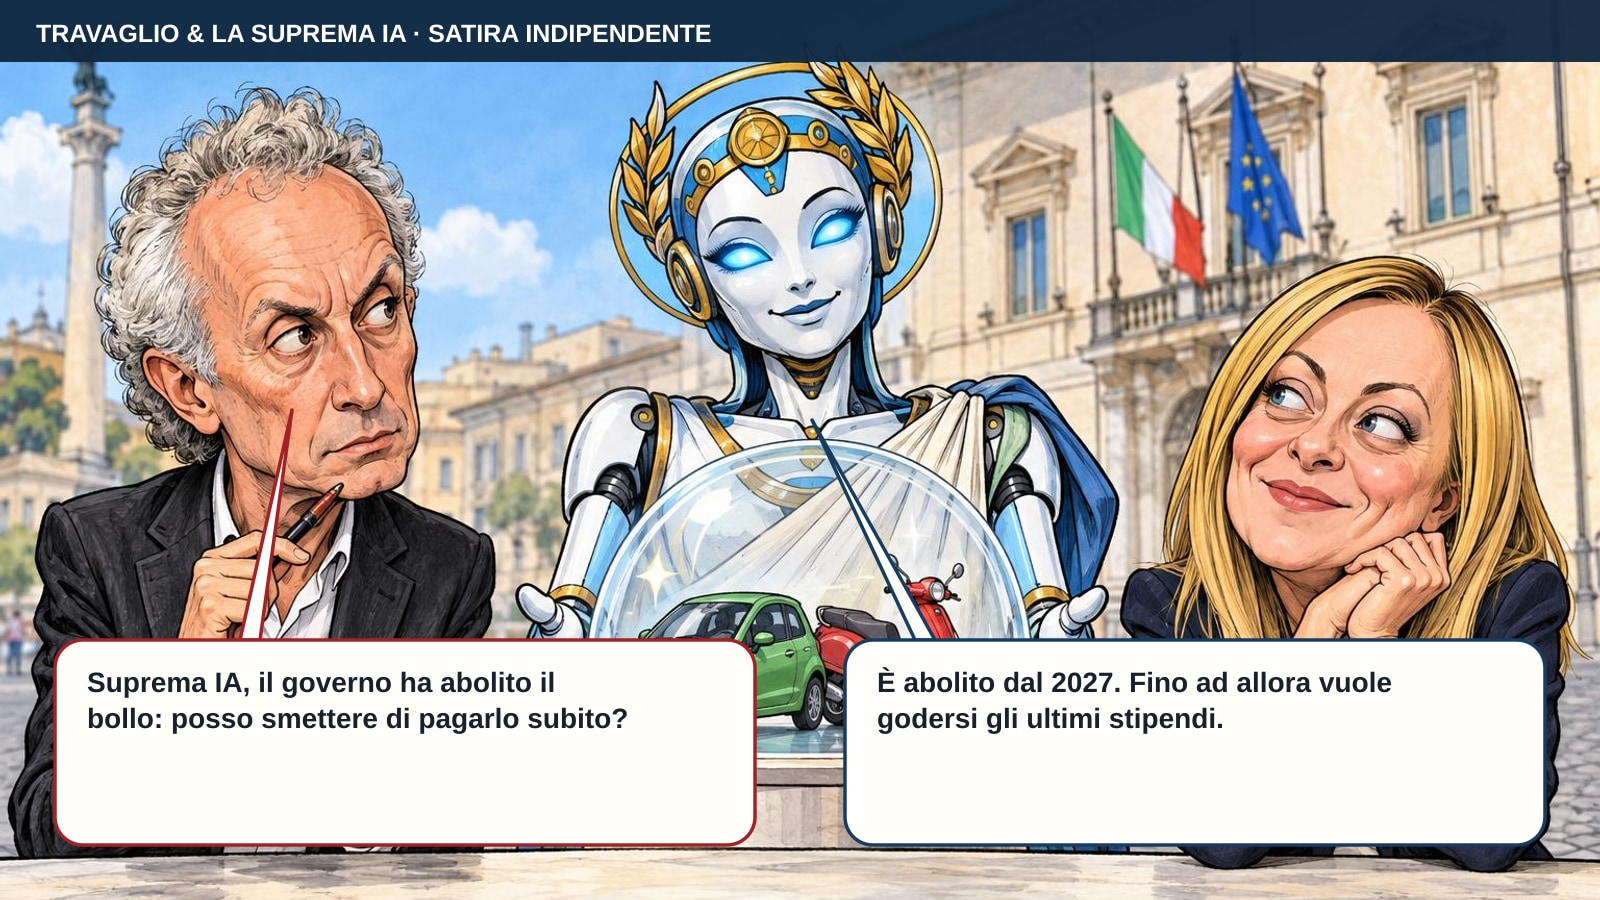
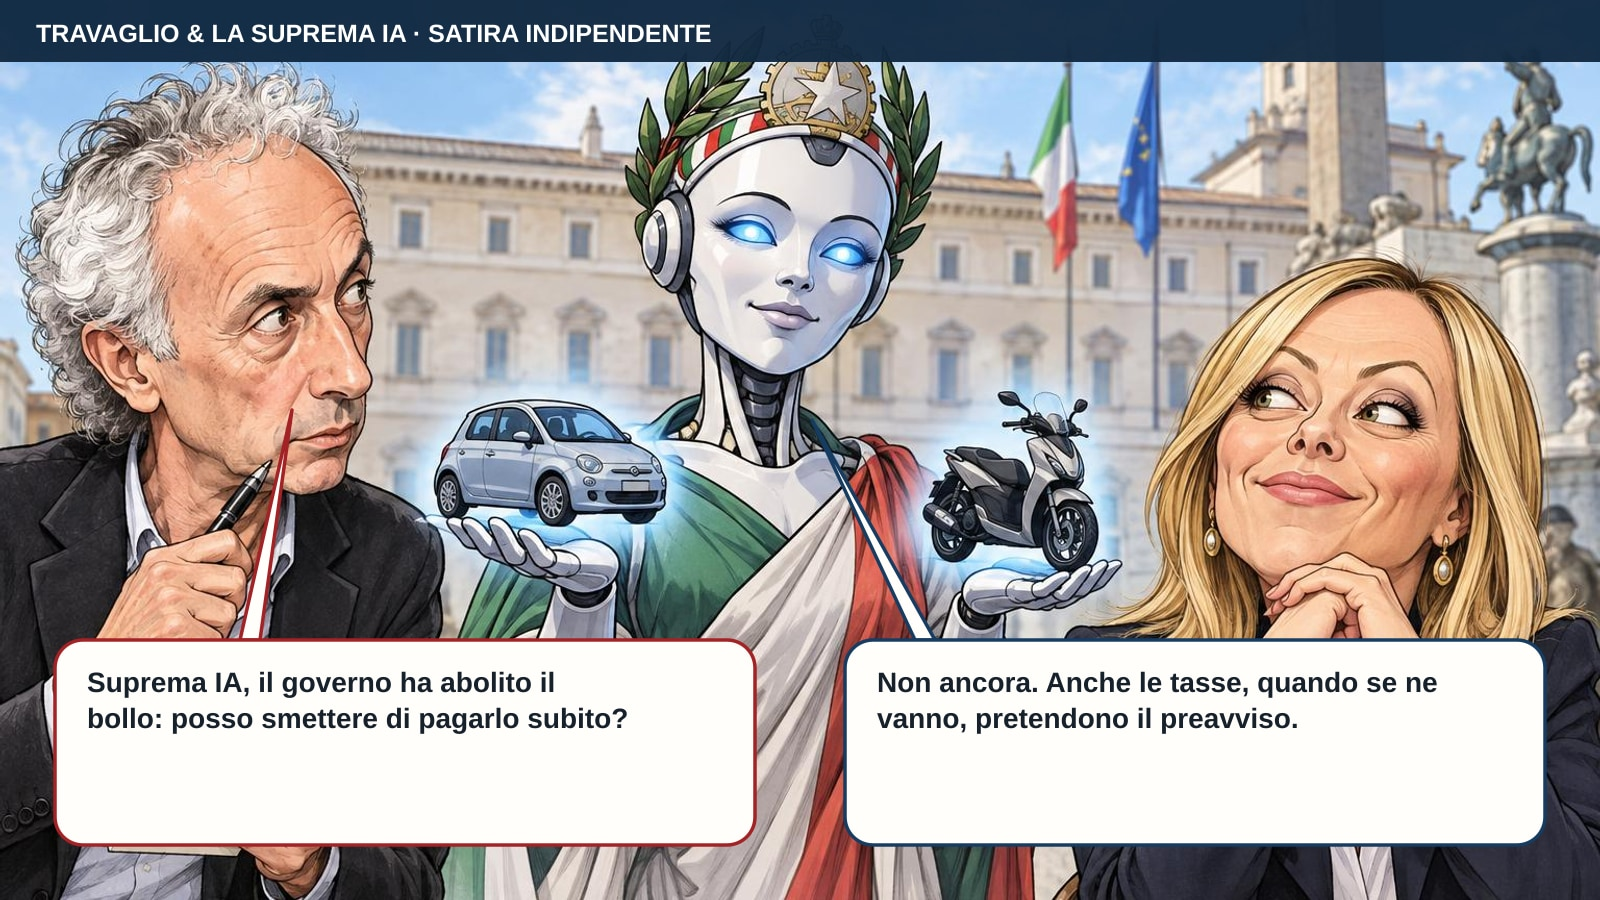
Revise historical satire punchlines

diff --git a/episodio/2026-09-23-bollo-appuntamento-2027/index.html b/episodio/2026-09-23-bollo-appuntamento-2027/index.html
@@ -9,8 +9,8 @@
   <meta property="og:type" content="article">
   <meta property="og:title" content="Il bollo ha preso appuntamento">
   <meta property="og:description" content="L’annuncio risale al 16 settembre: la misura prevede per il 2027 l’esenzione dal bollo per le auto fino a 80 kW e per i motoveicoli, limitata a un veicolo per cittadino.">
-  <meta property="og:image" content="https://travaglio-suprema-ia.vercel.app/assets/episodes/2026-09-23-bollo-appuntamento-2027-slim.jpg?v=2026-09-26T09%3A16%3A40.215Z">
-  <meta property="og:image:secure_url" content="https://travaglio-suprema-ia.vercel.app/assets/episodes/2026-09-23-bollo-appuntamento-2027-slim.jpg?v=2026-09-26T09%3A16%3A40.215Z">
+  <meta property="og:image" content="https://travaglio-suprema-ia.vercel.app/assets/episodes/2026-09-23-bollo-appuntamento-2027-slim.jpg?v=2026-09-26T10%3A16%3A38.547Z">
+  <meta property="og:image:secure_url" content="https://travaglio-suprema-ia.vercel.app/assets/episodes/2026-09-23-bollo-appuntamento-2027-slim.jpg?v=2026-09-26T10%3A16%3A38.547Z">
   <meta property="og:image:type" content="image/jpeg">
   <meta property="og:image:width" content="1600">
   <meta property="og:image:height" content="900">
@@ -21,7 +21,7 @@
   <meta name="twitter:card" content="summary_large_image">
   <meta name="twitter:title" content="Il bollo ha preso appuntamento">
   <meta name="twitter:description" content="L’annuncio risale al 16 settembre: la misura prevede per il 2027 l’esenzione dal bollo per le auto fino a 80 kW e per i motoveicoli, limitata a un veicolo per cittadino.">
-  <meta name="twitter:image" content="https://travaglio-suprema-ia.vercel.app/assets/episodes/2026-09-23-bollo-appuntamento-2027-slim.jpg?v=2026-09-26T09%3A16%3A40.215Z">
+  <meta name="twitter:image" content="https://travaglio-suprema-ia.vercel.app/assets/episodes/2026-09-23-bollo-appuntamento-2027-slim.jpg?v=2026-09-26T10%3A16%3A38.547Z">
   <link rel="canonical" href="https://travaglio-suprema-ia.vercel.app/episodio/2026-09-23-bollo-appuntamento-2027/">
   <link rel="icon" href="/assets/icon-192.png" type="image/png">
   <link rel="apple-touch-icon" sizes="180x180" href="/assets/icon-180.png">
@@ -49,12 +49,12 @@
       </header>
 
       <figure class="vignette">
-        <a class="image-direct-link" href="/assets/episodes/2026-09-23-bollo-appuntamento-2027-slim.jpg?v=2026-09-26T09%3A16%3A40.215Z" target="_blank" rel="noopener" aria-label="Apri la vignetta ingrandita">
-          <img id="heroImage" src="/assets/episodes/2026-09-23-bollo-appuntamento-2027-slim.jpg?v=2026-09-26T09%3A16%3A40.215Z" alt="Caricatura satirica con fumetti tradizionali, code sottili e dialogo leggibile." width="1600" height="900">
+        <a class="image-direct-link" href="/assets/episodes/2026-09-23-bollo-appuntamento-2027-slim.jpg?v=2026-09-26T10%3A16%3A38.547Z" target="_blank" rel="noopener" aria-label="Apri la vignetta ingrandita">
+          <img id="heroImage" src="/assets/episodes/2026-09-23-bollo-appuntamento-2027-slim.jpg?v=2026-09-26T10%3A16%3A38.547Z" alt="Caricatura satirica con fumetti tradizionali, code sottili e dialogo leggibile." width="1600" height="900">
         </a>
         <figcaption class="image-tools">
-          <a id="originalImageBtn" class="image-tool image-tool-primary" href="/assets/episodes/2026-09-23-bollo-appuntamento-2027-slim.jpg?v=2026-09-26T09%3A16%3A40.215Z" target="_blank" rel="noopener">Apri e ingrandisci</a>
-          <a id="downloadImageBtn" class="image-tool" href="/assets/episodes/2026-09-23-bollo-appuntamento-2027-slim.jpg?v=2026-09-26T09%3A16%3A40.215Z" download="2026-09-23-bollo-appuntamento-2027-vignetta.jpg">Scarica</a>
+          <a id="originalImageBtn" class="image-tool image-tool-primary" href="/assets/episodes/2026-09-23-bollo-appuntamento-2027-slim.jpg?v=2026-09-26T10%3A16%3A38.547Z" target="_blank" rel="noopener">Apri e ingrandisci</a>
+          <a id="downloadImageBtn" class="image-tool" href="/assets/episodes/2026-09-23-bollo-appuntamento-2027-slim.jpg?v=2026-09-26T10%3A16%3A38.547Z" download="2026-09-23-bollo-appuntamento-2027-vignetta.jpg">Scarica</a>
         </figcaption>
       </figure>
 
@@ -71,13 +71,13 @@
         </div>
         <div class="bubble answer">
           <div class="speaker">SUPREMA IA</div>
-          <p>È abolito dal 2027. Fino ad allora vuole godersi gli ultimi stipendi.</p>
+          <p>Non ancora. Anche le tasse, quando se ne vanno, pretendono il preavviso.</p>
         </div>
       </section>
 
       <div class="actions">
         <a class="btn secondary" href="/archive/">Archivio</a>
-        <a class="btn primary" href="/assets/episodes/2026-09-23-bollo-appuntamento-2027-slim.jpg?v=2026-09-26T09%3A16%3A40.215Z" download="2026-09-23-bollo-appuntamento-2027-vignetta.jpg">Scarica vignetta</a>
+        <a class="btn primary" href="/assets/episodes/2026-09-23-bollo-appuntamento-2027-slim.jpg?v=2026-09-26T10%3A16%3A38.547Z" download="2026-09-23-bollo-appuntamento-2027-vignetta.jpg">Scarica vignetta</a>
       </div>
     </article>
   </main>

diff --git a/episodio/2026-09-24-senato-via-libera-nucleare/index.html b/episodio/2026-09-24-senato-via-libera-nucleare/index.html
@@ -9,8 +9,8 @@
   <meta property="og:type" content="article">
   <meta property="og:title" content="Il nucleare torna in corrente">
   <meta property="og:description" content="Il 23 settembre il Senato ha approvato definitivamente il disegno di legge delega del Governo sul nucleare sostenibile, già approvato dalla Camera.">
-  <meta property="og:image" content="https://travaglio-suprema-ia.vercel.app/assets/episodes/2026-09-24-senato-via-libera-nucleare.jpg?v=2026-09-26T09%3A16%3A40.217Z">
-  <meta property="og:image:secure_url" content="https://travaglio-suprema-ia.vercel.app/assets/episodes/2026-09-24-senato-via-libera-nucleare.jpg?v=2026-09-26T09%3A16%3A40.217Z">
+  <meta property="og:image" content="https://travaglio-suprema-ia.vercel.app/assets/episodes/2026-09-24-senato-via-libera-nucleare.jpg?v=2026-09-26T10%3A16%3A38.549Z">
+  <meta property="og:image:secure_url" content="https://travaglio-suprema-ia.vercel.app/assets/episodes/2026-09-24-senato-via-libera-nucleare.jpg?v=2026-09-26T10%3A16%3A38.549Z">
   <meta property="og:image:type" content="image/jpeg">
   <meta property="og:image:width" content="1600">
   <meta property="og:image:height" content="900">
@@ -21,7 +21,7 @@
   <meta name="twitter:card" content="summary_large_image">
   <meta name="twitter:title" content="Il nucleare torna in corrente">
   <meta name="twitter:description" content="Il 23 settembre il Senato ha approvato definitivamente il disegno di legge delega del Governo sul nucleare sostenibile, già approvato dalla Camera.">
-  <meta name="twitter:image" content="https://travaglio-suprema-ia.vercel.app/assets/episodes/2026-09-24-senato-via-libera-nucleare.jpg?v=2026-09-26T09%3A16%3A40.217Z">
+  <meta name="twitter:image" content="https://travaglio-suprema-ia.vercel.app/assets/episodes/2026-09-24-senato-via-libera-nucleare.jpg?v=2026-09-26T10%3A16%3A38.549Z">
   <link rel="canonical" href="https://travaglio-suprema-ia.vercel.app/episodio/2026-09-24-senato-via-libera-nucleare/">
   <link rel="icon" href="/assets/icon-192.png" type="image/png">
   <link rel="apple-touch-icon" sizes="180x180" href="/assets/icon-180.png">
@@ -49,12 +49,12 @@
       </header>
 
       <figure class="vignette">
-        <a class="image-direct-link" href="/assets/episodes/2026-09-24-senato-via-libera-nucleare.jpg?v=2026-09-26T09%3A16%3A40.217Z" target="_blank" rel="noopener" aria-label="Apri la vignetta ingrandita">
-          <img id="heroImage" src="/assets/episodes/2026-09-24-senato-via-libera-nucleare.jpg?v=2026-09-26T09%3A16%3A40.217Z" alt="Caricatura satirica di Marco Travaglio, Suprema IA e protagonista della notizia: Il nucleare torna in corrente" width="1600" height="900">
+        <a class="image-direct-link" href="/assets/episodes/2026-09-24-senato-via-libera-nucleare.jpg?v=2026-09-26T10%3A16%3A38.549Z" target="_blank" rel="noopener" aria-label="Apri la vignetta ingrandita">
+          <img id="heroImage" src="/assets/episodes/2026-09-24-senato-via-libera-nucleare.jpg?v=2026-09-26T10%3A16%3A38.549Z" alt="Caricatura satirica di Marco Travaglio, Suprema IA e protagonista della notizia: Il nucleare torna in corrente" width="1600" height="900">
         </a>
         <figcaption class="image-tools">
-          <a id="originalImageBtn" class="image-tool image-tool-primary" href="/assets/episodes/2026-09-24-senato-via-libera-nucleare.jpg?v=2026-09-26T09%3A16%3A40.217Z" target="_blank" rel="noopener">Apri e ingrandisci</a>
-          <a id="downloadImageBtn" class="image-tool" href="/assets/episodes/2026-09-24-senato-via-libera-nucleare.jpg?v=2026-09-26T09%3A16%3A40.217Z" download="2026-09-24-senato-via-libera-nucleare-vignetta.jpg">Scarica</a>
+          <a id="originalImageBtn" class="image-tool image-tool-primary" href="/assets/episodes/2026-09-24-senato-via-libera-nucleare.jpg?v=2026-09-26T10%3A16%3A38.549Z" target="_blank" rel="noopener">Apri e ingrandisci</a>
+          <a id="downloadImageBtn" class="image-tool" href="/assets/episodes/2026-09-24-senato-via-libera-nucleare.jpg?v=2026-09-26T10%3A16%3A38.549Z" download="2026-09-24-senato-via-libera-nucleare-vignetta.jpg">Scarica</a>
         </figcaption>
       </figure>
 
@@ -71,13 +71,13 @@
         </div>
         <div class="bubble answer">
           <div class="speaker">SUPREMA IA</div>
-          <p>Hanno acceso il nucleare. Per ora consuma soltanto carta.</p>
+          <p>Tranquillo. Per ora l’unica cosa radioattiva è il dibattito.</p>
         </div>
       </section>
 
       <div class="actions">
         <a class="btn secondary" href="/archive/">Archivio</a>
-        <a class="btn primary" href="/assets/episodes/2026-09-24-senato-via-libera-nucleare.jpg?v=2026-09-26T09%3A16%3A40.217Z" download="2026-09-24-senato-via-libera-nucleare-vignetta.jpg">Scarica vignetta</a>
+        <a class="btn primary" href="/assets/episodes/2026-09-24-senato-via-libera-nucleare.jpg?v=2026-09-26T10%3A16%3A38.549Z" download="2026-09-24-senato-via-libera-nucleare-vignetta.jpg">Scarica vignetta</a>
       </div>
     </article>
   </main>
